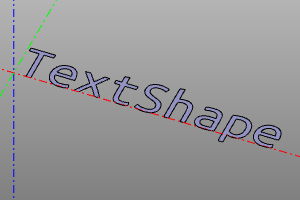
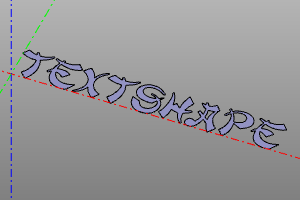
Change textshape specification

diff --git a/docs/ru/prim2d.html b/docs/ru/prim2d.html
@@ -155,11 +155,11 @@
 
 <h2 id="-7">Текст</h2>
 
-<p>Плоский примитив - текст. Создаёт грань на основе строки и шрифта. Шрифт указывается в виде пути на файл формата ttf (FreeType).</p>
+<p>Плоский примитив - текст. Создаёт грань на основе строки <code>text</code>, названия шрифта <code>fontname</code> и размера шрифта <code>size</code>. Шрифт выбирается из числа зарегистрированных в системе. Для регистрации дополнительных шрифтов используйте комманду <code>register_font</code>. Опция <code>composite_curve</code> Позволяет снизить количество составных объектов результирующей формы путём увеличения их сложности.</p>
 
 <p>Сигнатура:</p>
 
-<div class="codehilite"><pre><span></span><code><span class="n">textshape</span><span class="p">(</span><span class="n">text</span><span class="o">=</span><span class="n">textString</span><span class="p">,</span> <span class="n">fontpath</span><span class="o">=</span><span class="n">pathToFont</span><span class="p">,</span> <span class="n">size</span><span class="o">=</span><span class="n">fontSize</span><span class="p">)</span>
+<div class="codehilite"><pre><span></span><code><span class="n">textshape</span><span class="p">(</span><span class="n">text</span><span class="p">,</span> <span class="n">fontname</span><span class="p">,</span> <span class="n">size</span><span class="p">,</span> <span class="n">composite_curve</span><span class="o">=</span><span class="kc">False</span><span class="p">)</span>
 </code></pre></div>
 
 <p><img src="../images/generic/textshape0.png" alt="" /> <img src="../images/generic/textshape1.png" alt="" /></p>

diff --git a/docs/en/prim2d.html b/docs/en/prim2d.html
@@ -155,11 +155,11 @@ When the <em>wire</em> option is set, a wireframe will be generated instead of a
 
 <h2 id="text-shape">Text shape</h2>
 
-<p>The flat primitive is text. Creates a face based on string and font. The font is specified as a path to a ttf (FreeType) file.</p>
+<p>The flat primitive is text. Creates a face based on string <code>text</code> and name of font <code>fontname</code> with font size <code>size</code>. The font is selected from those registered in the system. To register additional fonts use <code>register_font</code> command. The <code>composite_curve</code> option reduce the number of edges in the resulting shape by increasing their complexity.</p>
 
 <p>Signature:</p>
 
-<div class="codehilite"><pre><span></span><code><span class="n">textshape</span><span class="p">(</span><span class="n">text</span><span class="o">=</span><span class="n">textString</span><span class="p">,</span> <span class="n">fontpath</span><span class="o">=</span><span class="n">pathToFont</span><span class="p">,</span> <span class="n">size</span><span class="o">=</span><span class="n">fontSize</span><span class="p">)</span>
+<div class="codehilite"><pre><span></span><code><span class="n">textshape</span><span class="p">(</span><span class="n">text</span><span class="p">,</span> <span class="n">fontname</span><span class="p">,</span> <span class="n">size</span><span class="p">,</span> <span class="n">composite_curve</span><span class="o">=</span><span class="kc">False</span><span class="p">)</span>
 </code></pre></div>
 
 <p><img src="../images/generic/textshape0.png" alt="" /> <img src="../images/generic/textshape1.png" alt="" /></p>

diff --git a/docs/en/prim0d.html b/docs/en/prim0d.html
@@ -189,6 +189,15 @@ points2 creates a two-dimensional array of points from a two-dimensional list.</
 
 <div class="codehilite"><pre><span></span><code><span class="n">rotateZ</span><span class="p">(</span><span class="n">deg</span><span class="p">(</span><span class="mi">45</span><span class="p">))</span>
 </code></pre></div>
+
+<hr />
+
+<h3 id="register-font">Register font</h3>
+
+<p>Register FreeType font in system.</p>
+
+<div class="codehilite"><pre><span></span><code><span class="n">register_font</span><span class="p">(</span><span class="n">fontpath</span><span class="p">)</span>
+</code></pre></div>
 </article>
     </div>
     <div id="footer"></div>

diff --git a/mangen/images/imagen.py b/mangen/images/imagen.py
@@ -401,6 +401,7 @@ doscreen(
 )
 
 register_font("../../zencad/examples/fonts/testfont.ttf")
+register_font("../../zencad/examples/fonts/mandarinc.ttf")
 doscreen(
     model=textshape("TextShape", "Ubuntu Mono", size=100),
     path="textshape0.png",
@@ -410,7 +411,7 @@ doscreen(
     triedron=True,
 )
 doscreen(
-    model=textshape("TextShape", "Ubuntu Mono", size=100),
+    model=textshape("TextShape", "Mandarinc", size=100),
     path="textshape1.png",
     size=wsize,
     yaw=yaw2d,

diff --git a/mangen/ru/prim2d.md b/mangen/ru/prim2d.md
@@ -105,15 +105,15 @@ ngon(r=radius, n=vertexCount, wire=True/False)
 ---
 :ru
 ## Текст
-Плоский примитив - текст. Создаёт грань на основе строки и шрифта. Шрифт указывается в виде пути на файл формата ttf (FreeType).
+Плоский примитив - текст. Создаёт грань на основе строки `text`, названия шрифта `fontname` и размера шрифта `size`. Шрифт выбирается из числа зарегистрированных в системе. Для регистрации дополнительных шрифтов используйте комманду `register_font`. Опция `composite_curve` Позволяет снизить количество составных объектов результирующей формы путём увеличения их сложности. 
 :en
 ## Text shape
-The flat primitive is text. Creates a face based on string and font. The font is specified as a path to a ttf (FreeType) file. 
+The flat primitive is text. Creates a face based on string `text` and name of font `fontname` with font size `size`. The font is selected from those registered in the system. To register additional fonts use `register_font` command. The `composite_curve` option reduce the number of edges in the resulting shape by increasing their complexity. 
 ::
 
 Сигнатура:
 ```python
-textshape(text=textString, fontpath=pathToFont, size=fontSize)
+textshape(text, fontname, size, composite_curve=False)
 ```
 ![](../images/generic/textshape0.png) ![](../images/generic/textshape1.png)  
 

diff --git a/mangen/ru/prim0d.md b/mangen/ru/prim0d.md
@@ -171,3 +171,16 @@ def rad2deg(rad):
 ```python
 rotateZ(deg(45))
 ```
+
+---
+:ru
+### Зарегистрировать шрифт
+Регистрирует в системе шрифт в формате FreeType.
+:en
+### Register font
+Register FreeType font in system.
+:end
+
+```python
+register_font(fontpath) 
+```
